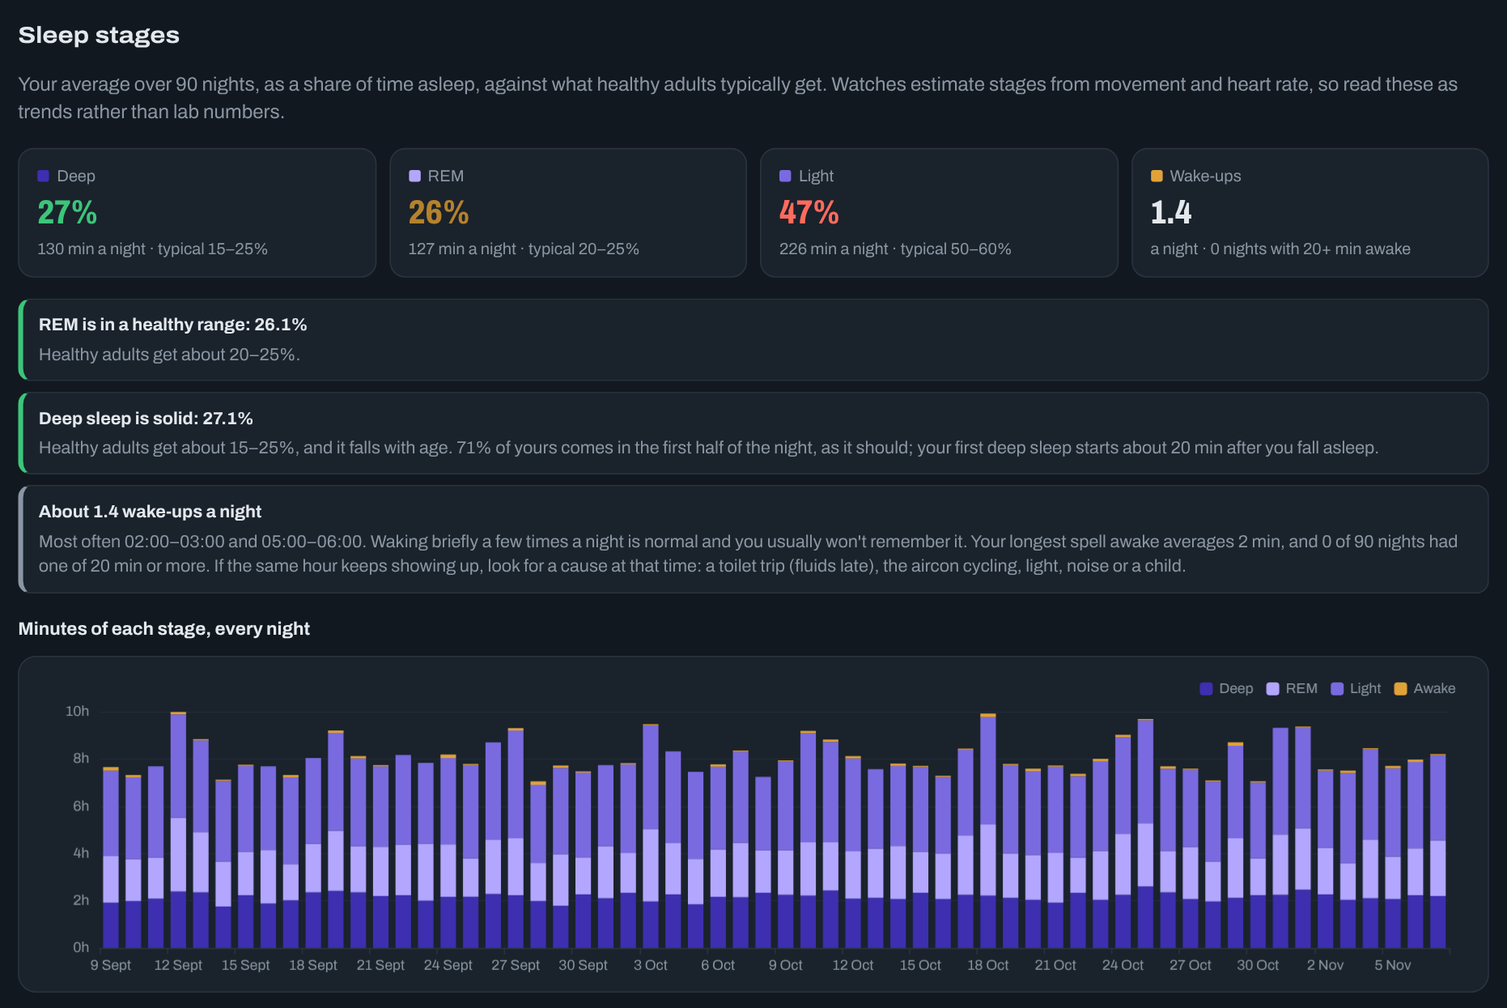
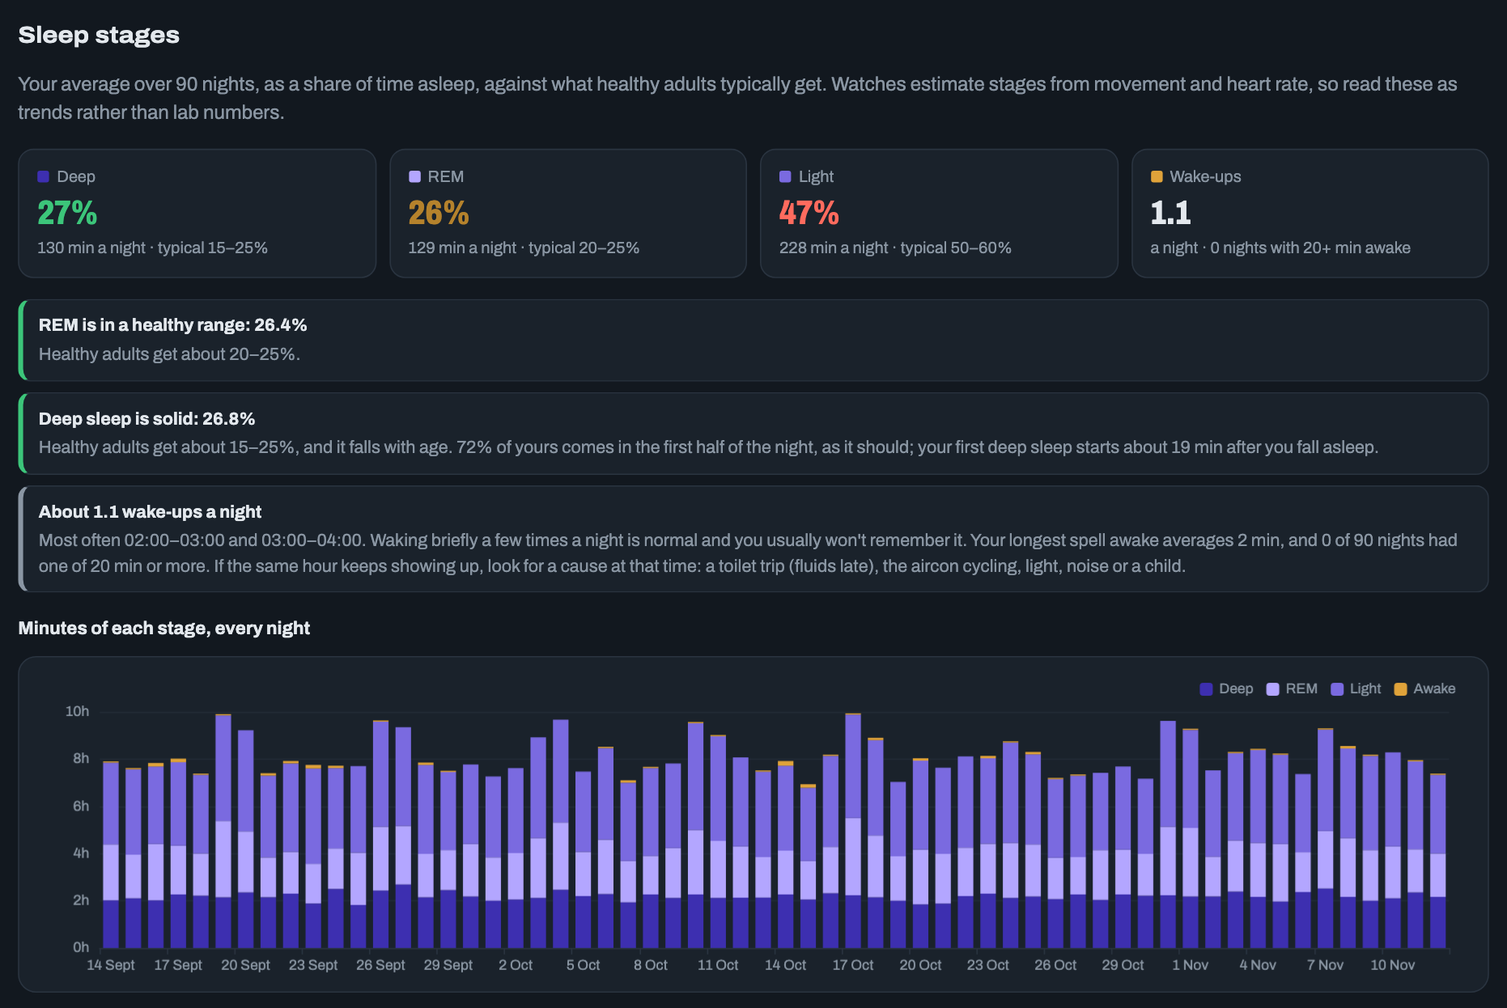
README and screenshots for 0.8.0: sub-tabs, zones, sleep need, maintenance (#77)
readme_media.py opens the right sub-tab for each shot and clicks sub-tabs on screen in the GIFs; six new
screenshots (zones, maintenance, lift progression, HRV, every night, how you've felt), all remade from the demo.

diff --git a/tools/readme_media.py b/tools/readme_media.py
@@ -23,22 +23,28 @@ SHOTS = [
     ("day.png", "day", None, None, 0),
     ("day-timeline.png", "day", "h2:Timeline", "#daytl", 0),
     ("glucose.png", "day", "#glucose", "#glucose", 0),
-    ("food.png", "food", "h2:Where it came from", ".staples", 0),
+    ("food.png", "food", "h2:Where it came from", ".fs-grid", 0),
     ("food-plants-swaps.png", "food", "h2:Plants this week", ".sw-grid", 0),
     ("food-glucose.png", "food", "h2:Glucose", "#gseg", 0),
     ("sleep.png", "sleep", "#sleep", "#sl-hyp", 0),
-    ("readiness.png", "sleep", "#tab-sleep h1", "#recchart", 0),
+    ("readiness.png", "sleep", "h2:Readiness", "#readychart", 0),
+    ("recovery.png", "sleep", "h2:HRV and resting", "#recchart", 0),
+    ("sleep-trend.png", "sleep", "h2:Every night", "#sl-trend", 0),
     ("sleep-stages.png", "sleep", "h2:Sleep stages", "#sl-stg", 0),
     ("sleep-factors.png", "sleep", "h2:What goes with better", ".sl-fx", 0),
-    ("workout.png", "training", "h2:Workouts", "#wodetail", 0),
+    ("workout.png", "training", "#wopick", "#wodetail", 0),
     ("muscle-map.png", "training", "h2:Muscles worked", "#musclemap", 0),
-    ("activity.png", "training", "h2:Activity", "#actcal", 0),
+    ("activity.png", "training", "h2:Activity", ".tr-pair", 0),
+    ("zones.png", "training", "h2:Heart-rate zones", "#zchart", 0),
+    ("lifts.png", "training", "h2:Lift progression", "#liftchart", 0),
     ("experiments.png", "experiments", "#tab-experiments h1", ".xp", 0),
     ("composition.png", "body", "h2:Body composition", "#bcgrid", 0),
     ("energy-balance.png", "body", "h2:Energy balance", "#ebchart", 0),
+    ("maintenance.png", "body", "h2:Your real maintenance", "#mtchart", 0),
     ("week.png", "week", "#week h1", ".wk-grid + .wk-grid", 0),
     ("trends.png", "week", "h2:Trends", "#trend", 0),
-    ("history.png", "history", "#tab-history h1", "#wbchart", 0),
+    ("history.png", "history", "#tab-history h1", "#tlchart", 0),
+    ("felt.png", "history", "h2:How you've felt", "#wbchart", 0),
     ("longevity.png", "longevity", None, None, 0),
 ]
 
@@ -56,8 +62,8 @@ PREVIEW_OVERLAY = """(() => {
 
 # ---------- the social preview: a 1280 x 640 collage of six screenshots, each labelled ----------
 SOCIAL = ("social-preview.png", [("day.png", "Meals to macros, paced"), ("experiments.png", "Experiments on yourself"),
-          ("readiness.png", "Sleep & recovery"), ("food.png", "Where your food comes from"),
-          ("muscle-map.png", "Workouts and a muscle map"), ("trends.png", "Every day against its targets")])
+          ("sleep-trend.png", "Sleep against Garmin's need"), ("food.png", "Where your food comes from"),
+          ("zones.png", "Heart-rate zones, 80/20"), ("trends.png", "Every day against its targets")])
 SOCIAL_HTML = """<!doctype html><html><head><meta charset="utf-8"><style>
   @font-face{font-family:Archivo;font-weight:100 900;font-stretch:62% 125%;src:url(data:font/woff2;base64,FONT) format('woff2-variations')}
   body{margin:0;width:1280px;height:640px;background:#0f1116;color:#EBEEF5;font-family:Archivo,system-ui,sans-serif;overflow:hidden}
@@ -102,10 +108,16 @@ class Page:
     def el(self, sel):
         loc = self.pg.locator("main > section:not([hidden]) h2", has_text=sel[3:]).first if sel.startswith("h2:") else self.pg.locator(sel).first
         # inside a sub-tab that isn't showing: open that sub-tab first
-        if self.pg.evaluate("""e => { const g = e && e.closest('.sub-group'); if(!g || !g.hidden) return false;
-                showSub(g.closest('section').id.slice(4), g.dataset.g); return true; }""", loc.element_handle()):
+        if self.pg.evaluate("""e => { const g = e && e.closest('.sub-group, [data-sg]'); if(!g) return false;
+                const sec = g.closest('section'), id = g.dataset.g || g.dataset.sg;
+                if(!(g.hidden || g.classList.contains('sg-off')) || sec.dataset.sub === id) return false;
+                showSub(sec.id.slice(4), id); return true; }""", loc.element_handle()):
             self.pg.wait_for_timeout(700)
         return loc
+
+    def sub(self, tab, g, wait=900):
+        """Click a sub-tab, where a viewer can see it: back to the top, then the button."""
+        self.scroll(0, 700); self.pg.click(f'.subtabs[data-tab="{tab}"] button[data-g="{g}"]'); self.pg.wait_for_timeout(wait)
 
     def y(self, sel):
         return self.pg.evaluate("e => e.getBoundingClientRect().top + scrollY", self.el(sel).element_handle())
@@ -141,25 +153,27 @@ def gif_tour(P):
     P.caption("Day: every macro paced through the day, against today's targets"); pg.wait_for_timeout(1800)
     P.scroll("h2:Timeline", 1300); P.caption("One timeline: food, energy, sleep, training and glucose")
     P.sweep("#daytl", fy=.3, ms=1650); pg.mouse.move(5, 5)
-    P.tab("food", 900); P.caption("Food: where your saturated fat, protein and fibre really come from"); pg.wait_for_timeout(1500)
+    P.tab("food", 900); P.sub("food", "week"); P.caption("Food: where your saturated fat, protein and fibre really come from"); pg.wait_for_timeout(1500)
     P.scroll("h2:Plants this week", 1200); P.caption("Plants this week, and swaps from foods you already eat"); pg.wait_for_timeout(1800)
-    P.tab("sleep", 900); P.caption("Sleep & recovery: readiness, last night, and when to be in bed tonight"); pg.wait_for_timeout(1650)
-    P.scroll("h2:Sleep stages", 1300); P.caption("Your sleep stages, and what changes them"); pg.wait_for_timeout(1350)
-    P.scroll("h2:What goes with better", 1200); P.caption("Your own nights compared: what goes with the bad ones"); pg.wait_for_timeout(1800)
-    P.tab("experiments", 900); P.caption("Experiments: test one change on yourself and see what it really does"); pg.wait_for_timeout(1950)
-    P.tab("training", 900); P.caption("Training: every session with coach notes and heart rate"); P.scroll("h2:Workouts", 900)
+    P.tab("sleep", 900); P.sub("sleep", "today"); P.caption("Sleep & recovery: last night, tonight's bedtime and readiness"); pg.wait_for_timeout(1650)
+    P.sub("sleep", "trends"); P.caption("Every night against Garmin's sleep need for it"); P.sweep("#sl-trend", fy=.35, ms=1500); pg.mouse.move(5, 5)
+    P.sub("sleep", "helps"); P.caption("Your own nights compared: what goes with the bad ones"); pg.wait_for_timeout(1800)
+    P.tab("experiments", 900); P.sub("experiments", "running"); P.caption("Experiments: test one change on yourself and see what it really does"); pg.wait_for_timeout(1950)
+    P.tab("training", 900); P.sub("training", "overview"); P.caption("Training: activity, intensity minutes and heart-rate zones"); pg.wait_for_timeout(1200)
+    P.scroll("h2:Heart-rate zones", 1000); pg.wait_for_timeout(1300)
+    P.sub("training", "workouts"); P.caption("Every session with coach notes and heart rate")
     chips = pg.locator("#wopick button[data-k]")
     for i in (1, 2): chips.nth(i).click(); pg.wait_for_timeout(825)
     P.scroll("h2:Muscles worked", 1000); P.caption("A muscle map of the hard sets you did")
     P.hover("#musclemap", .3, .35); pg.wait_for_timeout(675); P.hover("#musclemap", .72, .55); pg.wait_for_timeout(825)
-    P.tab("body", 900); P.scroll("h2:Body composition", 900); P.caption("Body: weight, composition and energy balance"); pg.wait_for_timeout(1650)
-    P.tab("week", 900); P.caption("Week: how it went, what to change, and the trends behind it"); pg.wait_for_timeout(1650)
-    P.tab("longevity", 900); P.caption("Longevity: blood markers, fitness and a health score"); pg.wait_for_timeout(1950)
+    P.tab("body", 900); P.sub("body", "energy"); P.caption("Body: energy balance, and what you really burn"); P.scroll("h2:Your real maintenance", 1000); pg.wait_for_timeout(1650)
+    P.tab("week", 900); P.sub("week", "week"); P.caption("Week: how it went, what to change, and the trends behind it"); pg.wait_for_timeout(1650)
+    P.tab("longevity", 900); P.sub("longevity", "overview"); P.caption("Longevity: blood markers, fitness and a health score"); pg.wait_for_timeout(1950)
 
 
 def gif_food(P):
     pg = P.pg
-    P.tab("food", 900); P.scroll("h2:Every food", 1000)
+    P.tab("food", 900); P.sub("food", "foods"); P.scroll("h2:Every food", 1000)
     box = pg.locator("#fq"); box.click()
     for ch in "chicken": box.type(ch); pg.wait_for_timeout(110)
     pg.wait_for_timeout(1200); box.fill(""); box.dispatch_event("input"); pg.wait_for_timeout(500)
@@ -167,34 +181,38 @@ def gif_food(P):
     pg.click('#ftab th[data-k="sf"]'); pg.wait_for_timeout(1400)
     pg.click('#ftab th[data-k="p"]'); pg.wait_for_timeout(1400)
     pg.click('.seg button[data-w="all"]'); pg.wait_for_timeout(1000)
-    P.scroll(0, 1200); pg.wait_for_timeout(1500)
+    P.sub("food", "week", 1500); pg.wait_for_timeout(600)
+    P.scroll("h2:Plants this week", 1100); pg.wait_for_timeout(1500)
 
 
 def gif_sleep(P):
     pg = P.pg
-    P.tab("sleep", 1000); P.scroll("#sleep", 900); pg.wait_for_timeout(1200)
+    P.tab("sleep", 1000); P.sub("sleep", "today"); P.scroll("h2:Last night", 900); pg.wait_for_timeout(1000)
     P.sweep("#sl-hyp", fy=.5, ms=1800); pg.mouse.move(5, 5)
-    P.scroll("h2:Every night", 1100); P.sweep("#sl-trend", fy=.35, ms=1800); pg.mouse.move(5, 5)
+    P.sub("sleep", "trends"); P.sweep("#sl-trend", fy=.35, ms=1800); pg.mouse.move(5, 5)
     P.scroll("h2:Sleep stages", 1200); pg.wait_for_timeout(1600)
-    P.scroll("h2:What goes with better", 1200); pg.wait_for_timeout(2000)
+    P.sub("sleep", "helps", 1400); pg.wait_for_timeout(800)
     P.scroll("h2:What your data says", 1100); pg.wait_for_timeout(2000)
 
 
 def gif_training(P):
     pg = P.pg
-    P.tab("training", 1000); P.scroll("h2:Workouts", 900)
+    P.tab("training", 1000); P.sub("training", "overview")
+    for d in ("30", "60", "0"): pg.click(f'#trange button[data-d="{d}"]'); pg.wait_for_timeout(1100)
+    P.scroll("h2:Heart-rate zones", 1000); P.sweep("#zchart", fy=.4, ms=1600); pg.mouse.move(5, 5)
+    P.sub("training", "workouts")
     chips = pg.locator("#wopick button[data-k]")
     for i in range(1, 4): chips.nth(i).click(); pg.wait_for_timeout(1100)
     P.scroll("h2:Muscles worked", 1000)
-    for m in ("14", "28", "7"): pg.click(f'#mrange button[data-m="{m}"]'); pg.wait_for_timeout(900)
-    P.hover("#musclemap", .28, .3); pg.wait_for_timeout(1000); P.hover("#musclemap", .7, .6); pg.wait_for_timeout(1200)
-    P.scroll("h2:Calories burnt", 1000); P.sweep("#trainchart", fy=.3, ms=1800)
+    P.hover("#musclemap", .28, .3); pg.wait_for_timeout(1000); P.hover("#musclemap", .7, .6); pg.wait_for_timeout(1000)
+    for m in ("7", "28"): pg.click(f'#mrange button[data-m="{m}"]'); pg.wait_for_timeout(900)
+    P.sub("training", "progress"); P.scroll("h2:Lift progression", 900); P.sweep("#liftchart", fy=.4, ms=1600)
 
 
 def gif_experiments(P):
     pg = P.pg
-    P.tab("experiments", 1000); pg.wait_for_timeout(1800)
-    P.scroll("h2:Try a rule", 1100); pg.wait_for_timeout(900)
+    P.tab("experiments", 1000); P.sub("experiments", "running"); pg.wait_for_timeout(1800)
+    P.sub("experiments", "ideas"); P.scroll("h2:Try a rule", 1100); pg.wait_for_timeout(900)
     for v in ("22:00", "23:00", "22:30"):
         box = pg.locator("#xtry-val"); box.fill(v); box.dispatch_event("input"); pg.wait_for_timeout(1200)
     P.scroll("h2:Look for a relationship", 1100); pg.wait_for_timeout(1800)
@@ -236,6 +254,7 @@ def main():
             if any(want(f) for f, *_ in SHOTS):
                 pg = b.new_page(viewport={"width": 1200, "height": 900}, device_scale_factor=1.6, reduced_motion="reduce", **opts)
                 pg.goto(url); pg.wait_for_selector("#day h1"); P = Page(pg); P.clean()
+                pg.add_style_tag(content="#fb{display:none!important}")   # the Feedback tab would poke into each section's left edge
                 for f, tab, top, bottom, _ in SHOTS:
                     if not want(f): continue
                     P.tab(tab, 1600)

diff --git a/README.md b/README.md
@@ -37,14 +37,14 @@ click anything.
 <td width="50%" valign="top"><img src="docs/img/food.gif" alt="Food: searching, sorting and switching to the last 7 days"><br>
 <b>Know your food.</b> Where this week's saturated fat, protein and fibre came from, plants against 30, swaps from
 foods you already eat, and every food you've logged, searchable and sortable.</td>
-<td width="50%" valign="top"><img src="docs/img/sleep.gif" alt="Sleep: last night, the trend, stages and what goes with better nights"><br>
-<b>Sleep better.</b> Last night's stages, your sleep debt, when to be in bed tonight, and which of your own days
-go with the bad nights, with advice from what it finds.</td>
+<td width="50%" valign="top"><img src="docs/img/sleep.gif" alt="Sleep: last night, every night against Garmin's sleep need, stages and what goes with better nights"><br>
+<b>Sleep better.</b> Last night's stages, every night against Garmin's sleep need for it, your sleep debt, when to
+be in bed tonight, and which of your own days go with the bad nights, with advice from what it finds.</td>
 </tr>
 <tr>
-<td width="50%" valign="top"><img src="docs/img/training.gif" alt="Training: workouts, the muscle map and calories burnt"><br>
-<b>Train with feedback.</b> Every session with coach notes and heart rate, lifts against last time, a muscle map of
-your hard sets, and calories burnt by activity.</td>
+<td width="50%" valign="top"><img src="docs/img/training.gif" alt="Training: the period, heart-rate zones, workouts, the muscle map and lift progression"><br>
+<b>Train with feedback.</b> Intensity minutes and your heart-rate zones against the 80/20 line, every session with
+coach notes and heart rate, lifts against last time, and a muscle map of your hard sets.</td>
 <td width="50%" valign="top"><img src="docs/img/experiments.gif" alt="Experiments: a running experiment, trying a rule on your history, and a finished result"><br>
 <b>Test what works for you.</b> Try one change, like a 22:30 bedtime or less salt, for a few weeks and see what it
 really does to your sleep, blood pressure or weight, judged against the weeks before.</td>
@@ -56,17 +56,18 @@ really does to your sleep, blood pressure or weight, judged against the weeks be
 | Tab | What it shows |
 |---|---|
 | **Day** | Every macro paced through the day, readiness, energy balance, and a timeline from sleep to dinner with glucose under each meal |
-| **Body** | Weight trend, body composition, energy balance against the scale, InBody scans, blood pressure |
+| **Body** | Weight trend, body composition, energy balance against the scale, your real maintenance from what you ate and what the scale did, InBody scans, blood pressure |
 | **Experiments** | Test one change on yourself, like a 22:30 bedtime every night or less salt every day: suggested from your own data, with a daily checklist and reminders, tracked day by day and scored against the weeks before. "Try a rule" and "Look for a relationship" ask your history first |
 | **Food** | Where your saturated fat, protein and fibre come from, plants this week against 30, swaps from foods you already eat, glucose by food and by meal, every food you've logged |
 | **History** | Weight with what explains it (blood tests, scans, target and training changes, off episodes), mood scores and symptoms, and every event |
 | **Longevity** | VO2 max, lipids, HbA1c, grip and more against target bands, with a health score and retest dates |
-| **Sleep & recovery** | Readiness, last night's stages, sleep debt, when to be in bed tonight, HRV and resting heart rate, and what goes with your better and worse nights |
-| **Training** | Every session with coach notes and heart rate, lifts against last time, a progression plan, a muscle map and an activity calendar |
+| **Sleep & recovery** | Last night's stages, when to be in bed tonight, readiness, every night against Garmin's sleep need, sleep debt, HRV and resting heart rate, and what goes with your better and worse nights |
+| **Training** | An activity calendar, intensity minutes and heart-rate zones against the 80/20 line, every session with coach notes and heart rate, lifts against last time, a muscle map, a progression plan and lift charts |
 | **Week** | The week at a glance, what to change next week, every day hit or miss against its targets, habits, new bests, and all the advice from your own data |
 
-Every page in detail, with screenshots: **[docs/features.md](docs/features.md)**. Or open it in the
-**[live demo](https://demo.bodykaizen.app/)**.
+Every tab but Day is split into sub-tabs, so one part is on screen at a time (Training has Overview, Workouts and
+Progress, for example), and links like `#training/progress` open one directly. Every page in detail, with
+screenshots: **[docs/features.md](docs/features.md)**. Or open it in the **[live demo](https://demo.bodykaizen.app/)**.
 
 **Works with** Claude (or any AI assistant that can edit files) · Garmin Connect · FreeStyle Libre (LibreLinkUp) ·
 Hevy · InBody · any smart scale or blood-pressure app you can screenshot.
@@ -252,7 +253,7 @@ never overwrites what you or your assistant logged.
 
 | Source | What it adds | How it gets in |
 |---|---|---|
-| **Garmin Connect** | Steps, calories burnt, sleep with stages and score, overnight HRV, resting heart rate, body battery, stress; every activity with its heart-rate trace; VO2 max | Pulled four times a day and on "Sync now" |
+| **Garmin Connect** | Steps, calories burnt, sleep with stages, score and Garmin's sleep need, overnight HRV, resting heart rate, body battery, stress; every activity with its heart-rate trace and time in each zone; intensity minutes; VO2 max | Pulled four times a day and on "Sync now" |
 | **Abbott LibreLinkUp** | Continuous glucose from a FreeStyle Libre, on the Day timeline with each meal marked | Pulled every 30 minutes |
 | **Hevy** | Gym sessions with every set | Paste the workout to your assistant; history from Hevy's CSV export |
 | **Scales and blood-pressure monitors** | Weight, body fat, muscle, visceral fat; systolic, diastolic and pulse | A screenshot of the app, read by your assistant |
@@ -351,7 +352,8 @@ AI-GUIDE.md   the brief for your AI assistant: every input, where it goes, how t
 ## Contributing
 
 Contributions are welcome: bug fixes, new foods, docs, views, integrations and better instructions for AI
-assistants. Start with [CONTRIBUTING.md](CONTRIBUTING.md); for anything big, open an issue first. Changed how a page looks?
+assistants. Found a problem or have an idea? The **Feedback** tab on the dashboard's left edge opens the right GitHub
+form with the version filled in. Start with [CONTRIBUTING.md](CONTRIBUTING.md); for anything big, open an issue first. Changed how a page looks?
 `python tools/readme_media.py` remakes every GIF and screenshot from the demo, and the live demo rebuilds itself
 on every merge. Everyone follows the
 [Code of Conduct](CODE_OF_CONDUCT.md). **Never include your own health data in an issue or pull request**; use the

diff --git a/docs/features.md b/docs/features.md
@@ -78,13 +78,18 @@ table sits underneath.
 
 ## Sleep & recovery
 
-![Readiness, then overnight HRV and resting heart rate against your baseline](img/readiness.png)
+Three sub-tabs: **Today** (last night, tonight and readiness), **Trends** (every night, HRV and resting heart rate,
+when you sleep, stages) and **What helps** (what goes with better nights, and advice).
+
+![Readiness: today's state against your own last 4 weeks, and what's holding you back](img/readiness.png)
 
 - **Readiness:** today's state against your own last 4 weeks (resting heart rate, HRV, sleep debt, training load,
   stress, body battery), saying what's holding you back. It's tested against your recorded off episodes and says
   how often it warned ahead.
 - **HRV and resting heart rate** every night against your baseline, with the resting heart rate at which the day
   should be a walk only.
+
+![HRV and resting heart rate every night against your baseline](img/recovery.png)
 
 ![Sleep: last night, sleep debt, tonight's bedtime and last night's stages](img/sleep.png)
 
@@ -95,6 +100,9 @@ table sits underneath.
 - **Every night:** time asleep against that night's target, and your sleep debt over 7 nights. The target is Garmin's
   sleep need for the night (raised after hard training or poor sleep, with the reason shown), and your own target on
   nights without one. Set `sleep_need: own` under `reference:` in targets.yaml to use yours every night.
+
+  ![Every night: time asleep against Garmin's sleep need, coloured hit or miss, with 7-night sleep debt below](img/sleep-trend.png)
+
 - **Sleep stages:** deep, REM and light sleep as a share of the night against typical adult ranges, how each
   changes with short nights, late sessions and late bedtimes, and the hours you tend to wake.
 - **When you sleep:** a bar per night from falling asleep to waking, so you can see how regular you are and how far
@@ -145,6 +153,14 @@ Test one change on yourself and see what it does to your own sleep, recovery, bl
 
 ## Training
 
+Three sub-tabs: **Overview** (activity, intensity minutes, heart-rate zones, calories burnt), **Workouts** (one
+session in detail and the muscles it worked) and **Progress** (next session, lift progression, lifts and runs). The
+period beside the title sets the Overview.
+
+![Activity and intensity minutes side by side: sessions shaded by calories burnt, and intensity minutes against the goal](img/activity.png)
+
+![Heart-rate zones: minutes in each zone per month, the share that was easy against the 80/20 line, and a note on easy runs](img/zones.png)
+
 ![A workout: Claude's comments, heart-rate trace with each effort marked, and every lift against last time](img/workout.png)
 
 - **Every session** with Claude's comments, the Garmin heart-rate trace with each effort marked, and every lift
@@ -153,17 +169,17 @@ Test one change on yourself and see what it does to your own sleep, recovery, bl
   machine changes kept separate and temporary resets when form slips.
 - **A muscle map:** front and back diagrams shaded by hard sets per muscle, for one workout or the last 7, 14 or 28
   days. Hover a muscle for the lifts and runs behind it.
-- **An activity calendar:** a year of sessions, GitHub-style, each day shaded by calories burnt.
-- **Intensity minutes** per week or month, counted Garmin's way (vigorous minutes double) against your weekly goal,
+- **An activity calendar:** your sessions over the period, GitHub-style, each day shaded by calories burnt.
+- **Intensity minutes** per day, week or month (following the period), counted Garmin's way (vigorous minutes double) against your weekly goal,
   with a 4-week average, this week's progress and the trend against the 4 weeks before.
 - **Heart-rate zones:** minutes in each of Garmin's five zones per day, week or month (following the period at the
   top), the share that was easy (zones 1–2) against the 80/20 line, and how many easy runs stayed under your easy
   heart-rate cap. If easy runs stay under the cap but the watch puts them in zone 3 or above, it says your watch's
   zones may be set too low.
 
-![Muscle map: front and back diagrams shaded by hard sets over the last 7 days](img/muscle-map.png)
+![Muscle map: front and back diagrams shaded by hard sets, for this workout or the last 7, 14 or 28 days](img/muscle-map.png)
 
-![Activity: a year of sessions, each day shaded by calories burnt](img/activity.png)
+![Lift progression: one lift's best set over time, picked from the chips above it](img/lifts.png)
 
 ## Body
 
@@ -177,6 +193,8 @@ towards your weight target, and your trend weight at the next InBody scan for ea
 ![Body composition: a small chart for each measure the scale gives, with InBody scans alongside](img/composition.png)
 
 ![Energy balance: daily burnt minus eaten, and the weight change it predicts against the actual trend](img/energy-balance.png)
+
+![Your real maintenance: what you burn from eating against the weight trend, Garmin's figure beside it, and targets for each goal rate](img/maintenance.png)
 
 ## Week
 
@@ -199,12 +217,14 @@ One week at a glance, and the place to check on a Sunday. Use the arrows to go b
 
 ## History
 
-![History: weight with blood tests, scans and target changes marked, and mood scores with symptoms](img/history.png)
+![History: weight with blood tests, scans and target changes marked](img/history.png)
 
 What happened and when. Your weight (7-day average) with blood tests, scans, target and training changes and off
 episodes marked on it, the mood, energy, gut and stress scores and symptoms you report, with sleep alongside, and
 every event by month. Tell your assistant about other events (a trip, an illness, a new supplement) and they're
 added.
+
+![How you've felt: mood, energy, gut and stress scores with sleep alongside, and the symptoms you report](img/felt.png)
 
 ## Longevity
 
